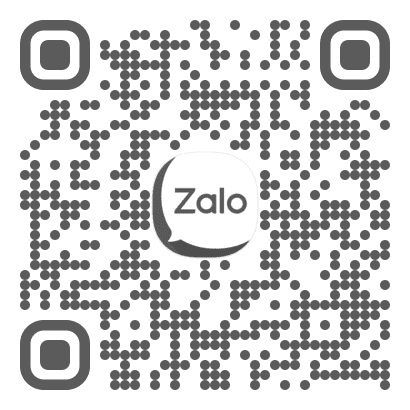
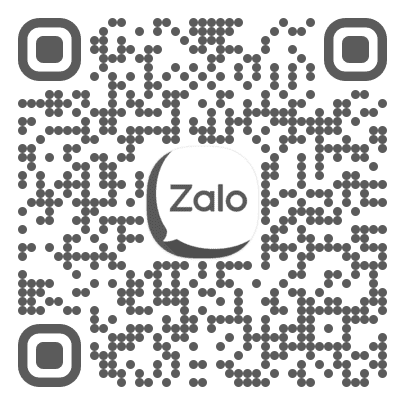
update info

diff --git a/src/config.js b/src/config.js
@@ -1,3 +1,3 @@
-export const phoneNumber = "0988957584";
-export const emailAddress = "hongphat@gmail.com";
+export const phoneNumber = "0977343936";
+export const emailAddress = "hongphatngukim@gmail.com";
 export const mapUrl = "https://maps.app.goo.gl/v4CwwvEsFtDqs1zz5";
